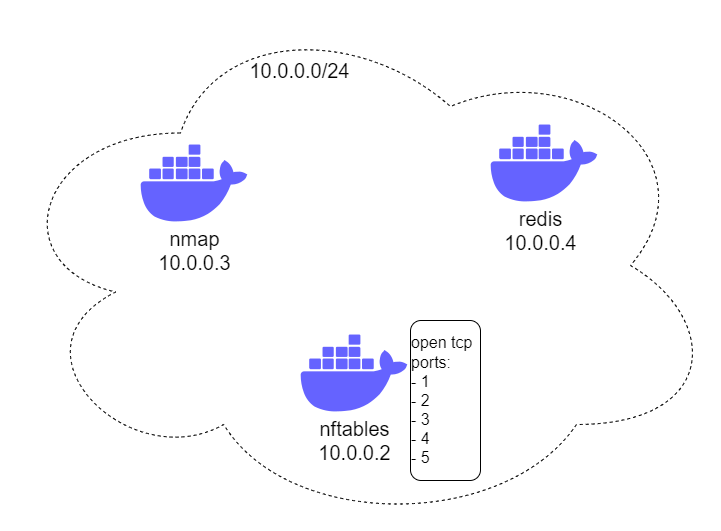
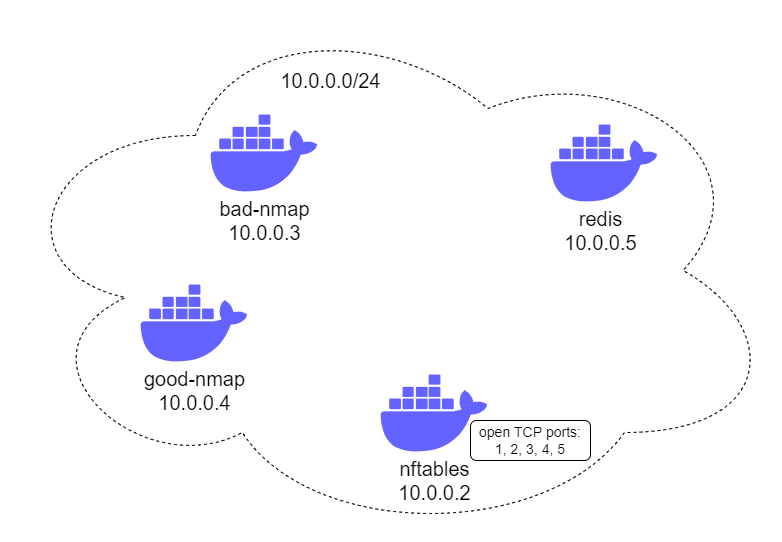
README

diff --git a/README.md b/README.md
@@ -16,15 +16,16 @@ The answers are as follows:
 - When? - every T seconds, where ```L <= T <= U```, L and U are provided at program startup.
 
 # 3. Architecture
-The PoC consists of three docker containers: \
+The PoC consists of four docker containers: \
 <img src="./pic/architecture.png" width="400">
 
-`nmap` container is used to scan the network, namely `nftables` container. 
-`nftables` container hosts the PoC that applies [nftables](https://wiki.nftables.org/wiki-nftables/index.php/Main_Page) rules to redirect network traffic and mislead adversaries (`nmap` container). `nftables` container also hosts an application that is able to send messages to the `redis` container. The PoC subscribes redis topic and each message triggers nftables rules application. Moreover, the `nftables` container has 5 open tcp ports: 1, 2, 3, 4 and 5.
+The `bad-nmap` container is an untrusted and bad actor an is used to scan the network, namely `nftables` container. On the other hand the `good-nmap` is a trusted and good actor that is also used to scan the network. `nftables` container hosts the PoC that applies [nftables](https://wiki.nftables.org/wiki-nftables/index.php/Main_Page) rules to redirect network traffic and mislead adversaries (`bad-nmap` container). `nftables` container also hosts an application that is able to send messages to the `redis` container. The PoC subscribes redis topic and each message triggers nftables rules application. Moreover, the `nftables` container has 5 open tcp ports: 1, 2, 3, 4 and 5.
 
 # 4. Test the solution
 
-To test the solution a linux based machine with docker compose is required. 
+To test the solution a linux based machine with a docker compose is required. 
+
+The PoC is configured to mislead the `bad-nmap` container so that the services listening on `nftables` machine, port numbers: 3, 4, 5, are "moving" from the `bad-nmap` container point of view. Ports 1 and 2 stand still evenin that scenario (this could be changed in the `configuration.json` file but for the sake of the test let's focus on the presented test scenario).  
 
 ## 4.1 Run the PoC
 
@@ -35,16 +36,16 @@ sudo docker-compose up
 
 `nmap` container exited immediately but we will take care of it in a moment.
 
-## 4.2 Nmap
+## 4.2 Bad and Good Nmap
 
 Open second terminal and run:
 ```
-sudo docker-compose run nmap
+sudo docker-compose run bad-nmap
 ```
 
-`nmap` container has [Nmap](https://nmap.org/) tool installed - powerful network discovery tool.
+`bad-nmap` container has [Nmap](https://nmap.org/) tool installed - powerful network discovery tool.
 
-From inside the `nmap` container run the [SYN](https://nmap.org/book/synscan.html) scan against `nftables` container, ports 1...20:
+From inside the `bad-nmap` container run the [SYN](https://nmap.org/book/synscan.html) scan against `nftables` container, ports 1...20:
 ```
 nmap -sS 10.0.0.2 -p1-20
 ```
@@ -57,22 +58,36 @@ Both IP and container name (`nftables`) are valid as communication within a dock
 
 As you can see the scan tells us that there are 5 TCP ports open: 1, 2, 3, 4 and 5.
 
+Open third terminal and run:
+```
+sudo docker-compose run good-nmap
+```
+From inside the `good-nmap` container run the [SYN](https://nmap.org/book/synscan.html) scan against `nftables` container, ports 1...20:
+```
+nmap -sS 10.0.0.2 -p1-20
+```
+or
+```
+nmap -sS nftables -p1-20
+```
+You should see similar results to the previous scan (`bad-nmap` container scan) - 5 TCP ports open: 1, 2, 3, 4 and 5.
+
 ## 4.3 Nftables
 
-Open third terminal and run:
+Open fourth terminal and run:
 ```
 sudo docker-compose exec nftables bash
 ```
 
 `nftables` (as mentioned in the [architecture](Architecture) section), has a python app that is able to send messages to the `redis` container. To send a single message run:
 ```
-python3 -m redis-message-launcher.main -r 10.0.0.4
+python3 -m redis-message-launcher.main -r 10.0.0.5
 ```
 or
 ```
 python3 -m redis-message-launcher.main -r redis
 ```
-Once you send the message, you should see that the `nftables` container received the message (first terminal). Receiving the message means that the nftables rules has been applied. To verify let's run the SYN scan one more time (second terminal - `nmap` container):
+Once you send the message, you should see that the `nftables` container received the message (first terminal). Receiving the message means that the nftables rules has been applied. To verify let's run the SYN scan one more time (second terminal - `bad nmap` container):
 ```
 nmap -sS nftables -p1-20
 ```
@@ -86,12 +101,18 @@ Let's run another message (third terminal - `nftables` container
 python3 -m redis-message-launcher.main -r redis
 ```
 
-and SYN scan one more time (second terminal - `nmap` container):
+and SYN scan one more time (second terminal - `bad-nmap` container):
 
 ```
 nmap -sS nftables -p1-20
 ```
 You should see that the ports (apart from port 1 and 2) are moving!
+
+Now run the same scan but from the third terminal (good and trusted `good-nmap` container)
+```
+nmap -sS nftables -p1-20
+```
+As you can see the open ports from the `good-nmap` container point of view are still the same despite the fact that the `bad-container` sees something completely different.
 
 ## 4.4 Automate messages sending
 Insted of sending messages one by one you can run python app and send messages in intervals (third container - `nftables` container):
